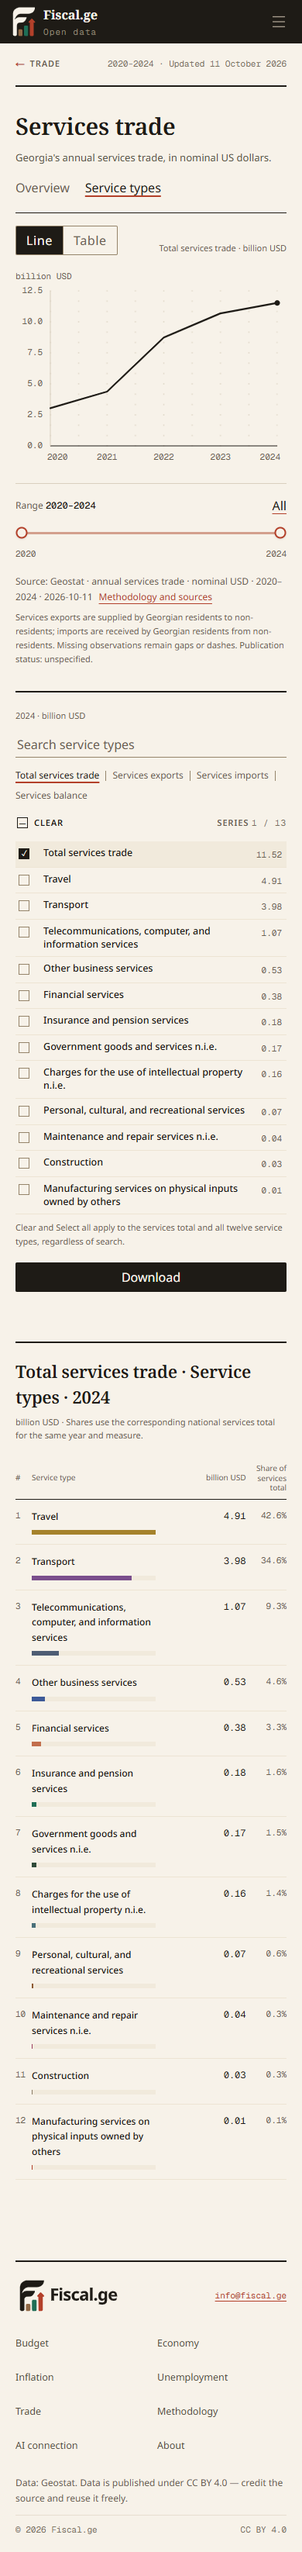
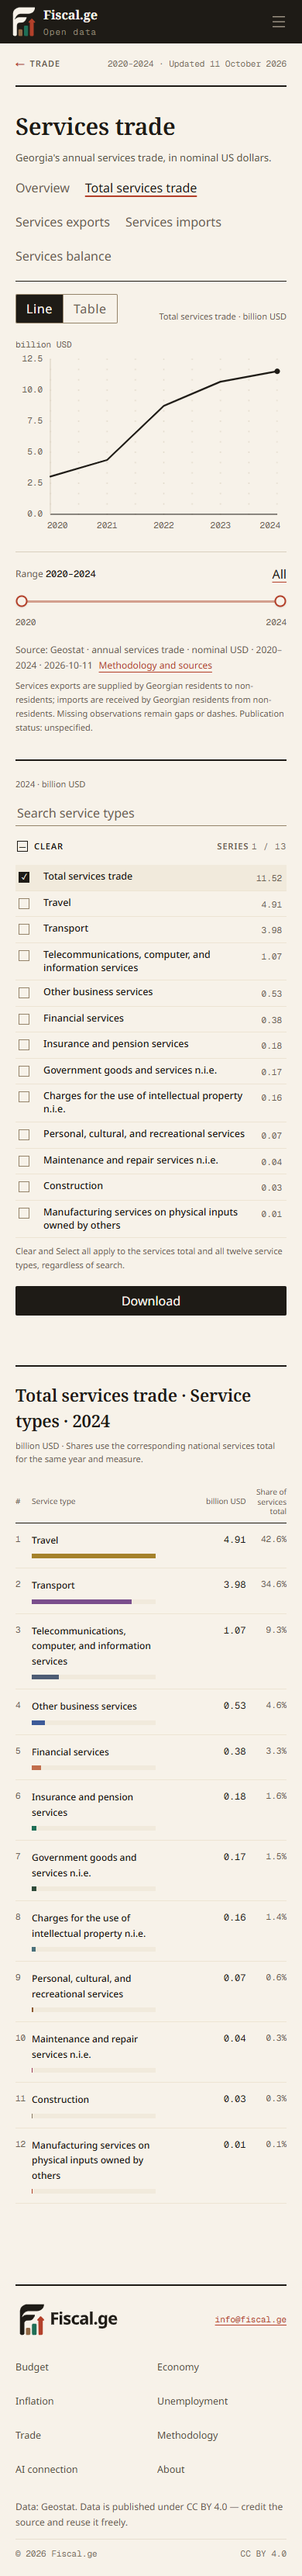
feat(trade): use measure tabs on services comparisons

diff --git a/apps/web/tests/browser/trade-services.spec.ts b/apps/web/tests/browser/trade-services.spec.ts
@@ -19,6 +19,9 @@ for (const prefix of ["", "/en"]) for (const width of [390, 768, 1440]) {
     await expect(page).toHaveURL(new RegExp(`${prefix}/explorer/trade/services$`));
     await expect(page.locator("body")).toHaveAttribute("data-app-ready", "true");
     await expect(page.getByRole("heading", { level: 1 })).toHaveText(prefix ? "Services trade" : "მომსახურებით ვაჭრობა");
+    const tabs = page.getByTestId("trade-services-tabs");
+    await expect(tabs.getByRole("button")).toHaveCount(5);
+    await expect(section(page, "overview")).toHaveAttribute("aria-pressed", "true");
     await expect(page.getByTestId("series-status")).toContainText("1 / 4");
     await expect(toggle(page, "trade.turnover")).toHaveAttribute("aria-pressed", "true");
     await expect(page.getByTestId("chart-panel")).toHaveAttribute("data-mode", "line");
@@ -45,7 +48,12 @@ for (const prefix of ["", "/en"]) for (const width of [390, 768, 1440]) {
     await page.getByTestId("chart-mode-table").click();
     expect(await tableSeriesCount(page.getByTestId("explorer-table"))).toBe(4);
 
-    await section(page, "types").click();
+    await section(page, "trade.exports").click();
+    await expect(page.getByTestId("chart-panel")).toHaveAttribute("data-measure", "trade.exports");
+    await expect(section(page, "trade.exports")).toHaveAttribute("aria-pressed", "true");
+    await section(page, "trade.turnover").click();
+    await expect(section(page, "trade.turnover")).toHaveAttribute("aria-pressed", "true");
+    await expect(page.getByTestId(/trade-partners-measure-/)).toHaveCount(0);
     await expect(page.getByTestId("series-status")).toContainText("1 / 13");
     await expect(page.getByTestId("series-list").getByTestId("series-row").first()).toHaveAttribute("data-series-id", "services.total");
     await expect(toggle(page, "services.total")).toHaveAttribute("aria-pressed", "true");
@@ -72,7 +80,7 @@ for (const prefix of ["", "/en"]) for (const width of [390, 768, 1440]) {
     await expect(page.getByTestId("trade-partners-ranking-row")).toHaveCount(12);
     await page.getByTestId("chart-mode-table").click();
     expect(await tableSeriesCount(page.getByTestId("explorer-table"))).toBe(13);
-    await page.getByTestId("trade-partners-measure-trade.balance").click();
+    await section(page, "trade.balance").click();
     await expect(page.getByTestId("trade-partners-ranking")).toHaveAttribute("data-has-share", "false");
     await expect(page.getByTestId("trade-partners-zero-axis").first()).toBeVisible();
     await expect(page.locator('[data-entity-id="services.construction"][data-testid="trade-partners-ranking-row"]')).toContainText("−");
@@ -90,6 +98,7 @@ for (const prefix of ["", "/en"]) for (const width of [390, 768, 1440]) {
     await page.setViewportSize({ width, height: 1000 });
     await page.goto(`${prefix}/explorer/trade/services#section=types&measure=trade.exports&sel=services.maintenance_repair&view=table&start=2020&end=2024`);
     await expect(page.getByTestId("series-status")).toContainText("1 / 13");
+    await expect(section(page, "trade.exports")).toHaveAttribute("aria-pressed", "true");
     const entities = JSON.parse(await readFile("../../data/taxonomy/trade-services.json", "utf8")) as { id: string; labelEn: string; labelKa: string }[];
     const label = entities.find(entity => entity.id === "services.maintenance_repair")![prefix ? "labelEn" : "labelKa"];
     const values = await tableSeriesValues(page.getByTestId("explorer-table"), label);
@@ -99,20 +108,22 @@ for (const prefix of ["", "/en"]) for (const width of [390, 768, 1440]) {
     await expect(end).toHaveAttribute("aria-valuenow", "2020");
     await expect(page.getByTestId("trade-partners-unavailable-row")).toHaveCount(1);
     await expect(page.getByTestId("trade-partners-ranking-row")).toHaveCount(11);
-    await page.getByTestId("trade-partners-measure-trade.imports").click();
+    await section(page, "trade.imports").click();
     expect((await tableSeriesValues(page.getByTestId("explorer-table"), label))[0]).not.toBe("—");
-    await page.getByTestId("trade-partners-measure-trade.balance").click();
+    await section(page, "trade.balance").click();
     expect((await tableSeriesValues(page.getByTestId("explorer-table"), label))[0]).toBe("—");
-    await page.getByTestId("trade-partners-measure-trade.turnover").click();
+    await section(page, "trade.turnover").click();
     expect((await tableSeriesValues(page.getByTestId("explorer-table"), label))[0]).toBe("—");
-    await page.getByTestId("trade-partners-measure-trade.balance").click();
+    await section(page, "trade.balance").click();
     const savedTypes = page.url();
-    await section(page, "overview").click();
+    await section(page, "overview").focus(); await section(page, "overview").press("Enter");
+    await expect(section(page, "overview")).toBeFocused();
     await expect(page.getByTestId("series-status")).toContainText("1 / 4");
     await toggle(page, "trade.turnover").focus(); await toggle(page, "trade.turnover").press("Space");
     await expect(page.getByTestId("series-status")).toContainText("0 / 4");
     await page.getByTestId("chart-mode-table").click();
-    await section(page, "types").focus(); await section(page, "types").press("Enter");
+    await section(page, "trade.balance").focus(); await section(page, "trade.balance").press("Enter");
+    await expect(section(page, "trade.balance")).toBeFocused();
     await expect(page).toHaveURL(savedTypes);
     await page.goBack();
     await expect(page.getByTestId("trade-services")).toHaveAttribute("data-section", "overview");

diff --git a/apps/web/components/trade/trade-partners.tsx b/apps/web/components/trade/trade-partners.tsx
@@ -1,8 +1,8 @@
 "use client";
 import Link from "next/link";
-import { Fragment } from "react";
+import { Fragment, type ReactNode } from "react";
 import type { ClientTradePartnersData } from "../../lib/data/tradePartners/importTradePartners";
-import { TRADE_OVERVIEW_INDICATORS } from "../../lib/data/tradeOverview/types";
+import { TRADE_OVERVIEW_INDICATORS, type TradeChartIndicator } from "../../lib/data/tradeOverview/types";
 import { buildTradePartnersModel, tradePartnerColor } from "../../lib/explorer/tradePartners";
 import { tradePartnersTotalId, setTradePartnersTab, tradePartnersCoverage } from "../../lib/explorer/tradePartnersState";
 import { buildTradePartnersWorkbookModel } from "../../lib/explorer/tradePartnersWorkbook";
@@ -25,7 +25,7 @@ import { useTradePartnersState } from "./use-trade-partners-state";
 import { TradePartnersSeriesPanel } from "./trade-partners-series-panel";
 import { TradePartnersRanking } from "./trade-partners-ranking";
 
-export function TradePartners({ data, sources, lastReviewedAt, siteOrigin }: { data: ClientTradePartnersData; sources: WorkbookPublicSource[]; lastReviewedAt: string; siteOrigin: string }) {
+export function TradePartners({ data, sources, lastReviewedAt, siteOrigin, navigation }: { data: ClientTradePartnersData; sources: WorkbookPublicSource[]; lastReviewedAt: string; siteOrigin: string; navigation?: (measure: TradeChartIndicator, changeMeasure: (next: TradeChartIndicator) => void) => ReactNode }) {
   const services = data.dataset === "services", domestic = !services && Boolean(data.measures), embedded = services || domestic;
   const totalId = tradePartnersTotalId(data);
   const presentation = useI18n(), { locale, messages, englishLabels } = presentation;
@@ -44,7 +44,7 @@ export function TradePartners({ data, sources, lastReviewedAt, siteOrigin }: { d
   }} />;
   return <div data-testid="trade-partners" className="@container">
     {!embedded ? <><ExplorerHeading>{t("title")}</ExplorerHeading><p className="mb-5 max-w-[800px] text-[13px] leading-relaxed text-[var(--body)]">{message(messages, "trade.partners.summaryWithScale", { scale })}</p></> : null}
-    {!embedded ? measureControls : null}
+    {navigation ? navigation(state.measure, measure => update(s => ({ ...s, measure }), true)) : !embedded ? measureControls : null}
     {state.tab === "groups" || model.selectedIds.some(id => entities.get(id)?.kind === "group") ? <p data-testid="trade-partners-group-note" className="mb-4 max-w-[850px] border-l-2 border-[var(--accent)] pl-3 text-[12px] leading-relaxed text-[var(--muted)]">{t("groupOverlap")}</p> : null}
     <ExplorerWorkspace>
       <div className="flex min-w-0 flex-col">
@@ -57,7 +57,7 @@ export function TradePartners({ data, sources, lastReviewedAt, siteOrigin }: { d
         </section>
         <div className="mt-[18px]"><SourceNote testId="source-label">{message(messages, services ? "trade.services.sourceNote" : "trade.sourceNote")} · {model.range.start}–{model.range.end} · {lastReviewedAt}<Link href={pageHref("/methodology/trade", locale)} className="ml-2 text-[var(--accent)] underline underline-offset-4">{message(messages, "trade.methodology")}</Link></SourceNote><p className="mt-2 max-w-[850px] text-[11px] leading-relaxed text-[var(--muted)]">{services ? message(messages, "trade.services.definitions") : domestic ? message(messages, "trade.domestic.countryDefinitions") : t("definitions")}</p></div>
       </div>
-      <SeriesAside label={message(messages, "controls.series")}><TradePartnersSeriesPanel key={state.tab} data={data} state={state} model={model} onTabChange={tab => update(s => setTradePartnersTab(s, tab), true)} onSelectionChange={selectedIds => update(s => ({ ...s, selectedIds }), true)} measureControls={measureControls} downloadAction={downloadAction} /></SeriesAside>
+      <SeriesAside label={message(messages, "controls.series")}><TradePartnersSeriesPanel key={state.tab} data={data} state={state} model={model} onTabChange={tab => update(s => setTradePartnersTab(s, tab), true)} onSelectionChange={selectedIds => update(s => ({ ...s, selectedIds }), true)} measureControls={navigation ? undefined : measureControls} downloadAction={downloadAction} /></SeriesAside>
     </ExplorerWorkspace>
     <TradePartnersRanking key={`${state.tab}:${state.measure}:${model.range.end}`} model={model} tab={state.tab} measure={state.measure} />
   </div>;

diff --git a/apps/web/components/trade/trade-services.tsx b/apps/web/components/trade/trade-services.tsx
@@ -1,5 +1,7 @@
 "use client";
+import { useEffect, useRef } from "react";
 import type { toClientTradeServicesData } from "../../lib/data/tradeServices/importTradeServices";
+import { TRADE_OVERVIEW_INDICATORS, type TradeChartIndicator } from "../../lib/data/tradeOverview/types";
 import type { WorkbookPublicSource } from "../../lib/explorer/workbookModel";
 import { message } from "../../lib/i18n/messages";
 import { useI18n } from "../../lib/i18n/provider";
@@ -13,13 +15,24 @@ const sections = ["overview", "types"] as const;
 export function TradeServices({ data, sources, lastReviewedAt, siteOrigin }: { data: ReturnType<typeof toClientTradeServicesData>; sources: WorkbookPublicSource[]; lastReviewedAt: string; siteOrigin: string }) {
   const { messages } = useI18n(), t = (key: string) => message(messages, `trade.services.${key}`);
   const { section, changeSection } = useTradeSectionsState(sections, "overview", "trade-services-state");
+  const pendingFocus = useRef<string | null>(null);
+  useEffect(() => {
+    if (!pendingFocus.current) return;
+    document.getElementById(pendingFocus.current)?.focus({ preventScroll: true });
+    pendingFocus.current = null;
+  }, [section]);
+  const changeView = (next: typeof section, measure?: TradeChartIndicator) => {
+    if (next !== section) pendingFocus.current = `trade-services-section-${measure ?? "overview"}`;
+    changeSection(next, measure ? { measure } : undefined);
+  };
   const props = { sources, lastReviewedAt, siteOrigin, dataset: "services" as const };
+  const tabs = (measure?: TradeChartIndicator, changeMeasure?: (next: TradeChartIndicator) => void) => <div role="group" aria-label={t("views")} data-testid="trade-services-tabs" className="mb-5 flex flex-wrap items-center gap-5">
+    <TextTab label={t("overview")} active={section === "overview"} onClick={() => changeView("overview")} id="trade-services-section-overview" testId="trade-services-section-overview" />
+    {(data.types.measures ?? TRADE_OVERVIEW_INDICATORS).map(id => <TextTab key={id} label={t(`indicator.${id}`)} active={section === "types" && measure === id} onClick={() => changeMeasure ? changeMeasure(id) : changeView("types", id)} id={`trade-services-section-${id}`} testId={`trade-services-section-${id}`} />)}
+  </div>;
   return <div data-testid="trade-services" data-section={section} className="@container">
     <ExplorerHeading>{t("title")}</ExplorerHeading>
     <p className="mb-4 max-w-[850px] text-[13px] leading-relaxed text-[var(--body)]">{t("summary")}</p>
-    <div role="group" aria-label={t("views")} className="mb-5 flex flex-wrap items-center gap-5">
-      {sections.map(id => <TextTab key={id} label={t(id)} active={section === id} onClick={() => changeSection(id)} testId={`trade-services-section-${id}`} />)}
-    </div>
-    {section === "overview" ? <TradeOverview facts={data.national} {...props} /> : <TradePartners data={data.types} sources={sources} lastReviewedAt={lastReviewedAt} siteOrigin={siteOrigin} />}
+    {section === "overview" ? <>{tabs()}<TradeOverview facts={data.national} {...props} /></> : <TradePartners data={data.types} sources={sources} lastReviewedAt={lastReviewedAt} siteOrigin={siteOrigin} navigation={tabs} />}
   </div>;
 }

diff --git a/apps/web/tests/explorer/tradeServicesRender.test.tsx b/apps/web/tests/explorer/tradeServicesRender.test.tsx
@@ -9,13 +9,15 @@ import { TradePartnersRanking } from "../../components/trade/trade-partners-rank
 import { buildTradePartnersModel } from "../../lib/explorer/tradePartners";
 import { parseTradePartnersHash } from "../../lib/explorer/tradePartnersState";
 
-test.each(["en", "ka"] as const)("services %s has one heading, two page tabs and a twelve-type ranking", async locale => {
+test.each(["en", "ka"] as const)("services %s has one heading, overview and four measure tabs, and a twelve-type ranking", async locale => {
   const data = toClientTradeServicesData(await loadTradeServicesData()), presentation = { locale, englishLabels: data.englishLabels, messages: await getMessages(locale, ["trade", "controls", "main", "format", "common"]) };
   const props = { sources: [], lastReviewedAt: "2026-10-11", siteOrigin: "https://fiscal.ge" };
   const page = renderToStaticMarkup(<I18nProvider {...presentation}><TradeServices data={data} {...props} /></I18nProvider>);
   expect(page.match(/<h1/g)).toHaveLength(1);
-  expect(page).toContain('data-testid="trade-services-section-types"');
   expect(page).toContain('data-testid="trade-services-section-overview"');
+  for (const measure of ["trade.turnover", "trade.exports", "trade.imports", "trade.balance"]) {
+    expect(page).toContain(`data-testid="trade-services-section-${measure}"`);
+  }
   if (locale === "en") expect(page).toContain("Georgia&#x27;s annual services trade, in nominal US dollars.");
   const html = renderToStaticMarkup(<I18nProvider {...presentation}><TradePartners data={data.types} {...props} /></I18nProvider>);
   expect(html.match(/data-testid="trade-partners-ranking-row"/g)).toHaveLength(12);

diff --git a/apps/web/components/trade/use-trade-sections-state.ts b/apps/web/components/trade/use-trade-sections-state.ts
@@ -1,7 +1,7 @@
 "use client";
 import { useEffect, useRef, useState } from "react";
 
-export function useTradeSectionsState<T extends string>(sections: readonly T[], defaultSection: T, eventName: string): { section: T; changeSection: (next: T) => void } {
+export function useTradeSectionsState<T extends string>(sections: readonly T[], defaultSection: T, eventName: string): { section: T; changeSection: (next: T, parameters?: Record<string, string>) => void } {
   const [section, setSection] = useState<T>(defaultSection);
   const saved = useRef<Partial<Record<T, string>>>({});
   useEffect(() => {
@@ -15,10 +15,15 @@ export function useTradeSectionsState<T extends string>(sections: readonly T[], 
     window.addEventListener(eventName, cache);
     return () => { window.removeEventListener("popstate", restore); window.removeEventListener("hashchange", restore); window.removeEventListener(eventName, cache); };
   }, [sections, defaultSection, eventName]);
-  const changeSection = (next: T) => {
+  const changeSection = (next: T, parameters?: Record<string, string>) => {
     if (next === section) return;
     saved.current[section] = window.location.hash;
-    const hash = saved.current[next] || `#section=${next}`;
+    let hash = saved.current[next] || `#section=${next}`;
+    if (parameters) {
+      const params = new URLSearchParams(hash.slice(1));
+      for (const [key, value] of Object.entries(parameters)) params.set(key, value);
+      hash = `#${params}`;
+    }
     try { window.history.pushState(null, "", hash); } catch { /* The comparison still works in embedded contexts. */ }
     setSection(next);
   };

diff --git a/apps/web/components/ui/editorial.tsx b/apps/web/components/ui/editorial.tsx
@@ -8,13 +8,15 @@ type TextTabProps = {
   label: string;
   active: boolean;
   onClick: () => void;
+  id?: string;
   testId?: string;
 };
 
-export function TextTab({ label, active, onClick, testId }: TextTabProps) {
+export function TextTab({ label, active, onClick, id, testId }: TextTabProps) {
   return (
     <button
       type="button"
+      id={id}
       data-testid={testId}
       aria-pressed={active}
       onClick={onClick}

diff --git a/docs/superpowers/specs/2026-10-11-trade-services-design.md b/docs/superpowers/specs/2026-10-11-trade-services-design.md
@@ -7,6 +7,8 @@ Status: First-release scope approved on 2026-10-11 when the owner selected "Over
 
 Help Fiscal.ge readers understand Georgia's services exports and imports, see their balance, and compare the twelve published service types over time. Readers can inspect and download the same annual figures in Georgian or English using the established Trade controls.
 
+Navigation amendment approved 2026-10-12: the owner requested moving the four measure controls to the page-level tabs, replacing Service types. Keep Overview followed by Total services trade, Services exports, Services imports and Services balance. The four measure tabs share the existing service-type comparison state and retain the existing saved-link format.
+
 The owner approved one Services trade page with **Overview** and **Service types** views for the captured 2020–2024 annual data. Countries are deferred. Preserve the source's missing observation, exact decimals and two unresolved country-table discrepancies.
 
 Approaches considered:
@@ -26,7 +28,7 @@ The first release has no country or type-by-country comparisons, combined goods-
 - Extend the existing `/methodology/trade` page and its English mirror.
 - Reuse breadcrumbs, source notes, language links, metadata, Dataset JSON-LD and sitemap patterns. Coverage and review dates come from the accepted package.
 
-Keep one heading and one short lead line: "Georgia's annual services trade, in nominal US dollars." Do not add a summary paragraph or source-warning block beneath the heading. Put definitions and the reason for deferring countries in the methodology. Use one row of text tabs, **Overview | Service types**, below the lead line.
+Keep one heading and one short lead line: "Georgia's annual services trade, in nominal US dollars." Do not add a summary paragraph or source-warning block beneath the heading. Put definitions and the reason for deferring countries in the methodology. Use one row of text tabs, **Overview | Total services trade | Services exports | Services imports | Services balance**, below the lead line.
 
 This is services supplied between residents and non-residents. Services exports are supplied by Georgian residents to non-residents; services imports are received by Georgian residents from non-residents. Do not reuse the goods-only FOB/CIF, final-destination, sending-country or re-export explanations. Travel remains the publisher's Travel category, and Telecommunications, computer, and information services remains the complete published category rather than an IT-only estimate.
 
@@ -51,7 +53,7 @@ Reuse `TradePartners`, its model, series panel and ranking through a small expli
 
 - One measure at a time: Total services trade, Services exports, Services imports or Services balance. Start with Total services trade, matching the current partner comparison default.
 - One series selector: the removable national services total first, followed by the twelve published service types. Initially only the total is selected.
-- No Countries/Country groups browsing controls. Put the compact measure controls below search, as on Domestic exports, so there is only one page-level tab row.
+- No Countries/Country groups browsing controls. The four page-level measure tabs open this comparison directly; do not repeat measure controls below search.
 - Reuse multilingual search, unlimited selections and the standard `Series {selected} / {all}` count. The denominator is thirteen, derived from the accepted catalogue. Search does not narrow Clear/Select all, counts, ranking or Excel.
 - Sort type choices by the active end-year amount, or absolute amount for Balance; put unavailable choices last with a stable label/ID tie-break.
 - Keep the applicable national total in ink and assign stable editorial colors to the twelve types using the existing palette. Color never substitutes for a readable label.

diff --git a/DESIGN.md b/DESIGN.md
@@ -1178,9 +1178,9 @@ Keep one page-level tab row. Countries places its small Domestic exports / Re-ex
 
 ### 28.4 Services trade
 
-Approved 2026-10-11 (`docs/superpowers/specs/2026-10-11-trade-services-design.md`). The Services trade page and English mirror use one heading, one short nominal-USD lead line and one Overview / Service types text-tab row. Reuse `TradeOverview` and `TradePartners` through their explicit services dataset options, the shared Trade tab state, series panel, charts, tables, annual range controls, ranking and native Excel. The fifth hub card and active sidebar child follow Domestic exports, with services turnover and loaded coverage.
+Approved 2026-10-11, navigation amended 2026-10-12 (`docs/superpowers/specs/2026-10-11-trade-services-design.md`). The Services trade page and English mirror use one heading, one short nominal-USD lead line and one text-tab row: Overview / Total services trade / Services exports / Services imports / Services balance. Reuse `TradeOverview` and `TradePartners` through their explicit services dataset options, the shared Trade tab state, series panel, charts, tables, annual range controls, ranking and native Excel. The fifth hub card and active sidebar child follow Domestic exports, with services turnover and loaded coverage.
 
-Overview offers Total services trade, Services exports, Services imports and Services balance, with four independent end-year figures and the signed balance context chart. Service types starts with Total services trade and a single selector containing the removable national services total plus all twelve types; measure controls sit below search and no country/group tabs appear. Each view initially selects only its applicable total, in line mode over all loaded years. Selection is unlimited; search never scopes bulk actions, counts, ranking or Excel. The independent end-year ranking shows all twelve types; non-balance shares use the matching same-year national services total, while Balance uses absolute magnitude, signed neutral bars and no share. Scale follows the full relevant catalogue over the active range independently of checkbox selection.
+Overview offers Total services trade, Services exports, Services imports and Services balance, with four independent end-year figures and the signed balance context chart. Each measure tab opens the service-type comparison directly; the four measure tabs replace the Service types tab and the controls below search. These tabs share one comparison selection containing the removable national services total plus all twelve types; no country/group tabs appear. Each view initially selects only its applicable total, in line mode over all loaded years. Selection is unlimited; search never scopes bulk actions, counts, ranking or Excel. The independent end-year ranking shows all twelve types; non-balance shares use the matching same-year national services total, while Balance uses absolute magnitude, signed neutral bars and no share. Scale follows the full relevant catalogue over the active range independently of checkbox selection.
 
 Saved links retain view, active measure, years, mode and explicit empty selections through reload, history, language changes and active sidebar links; switching views remembers the last comparison. Missing values remain gaps, dashes and blank workbook cells; zero stays numerical. Keep `services.total` and service-type identities separate from goods/countries. Explain resident/non-resident definitions, the unavailable 2020 maintenance/repair export, exact formulas, country holds and the distinct NBG vintage in the existing methodology. No new component family or visual system is introduced.
 

diff --git a/docs/superpowers/reviews/2026-10-12-trade-services-requested-review.md b/docs/superpowers/reviews/2026-10-12-trade-services-requested-review.md
@@ -1,0 +1,28 @@
+# Requested Services code review — 2026-10-12
+
+The owner explicitly invoked `superpowers:requesting-code-review`. A fresh reviewer, `/root/services_requested_code_review` (gpt-6.1-sol, high), reviewed the complete Services implementation and current tab amendment read-only, without inherited conversation history or additional reviewers.
+
[1 lines of base64/hex data omitted]
+
+## Findings and assessment
+
+Critical: none identified. Important: none identified. Minor: none identified.
+
+The reviewer inspected source/cell bindings and exact derivations, preserved missingness, shared explorer controls and saved state, tab focus, ranking/shares/colors/scaling, native workbooks, private migration/import parity, bilingual discovery/methodology/SEO and MCP exclusions. Representative final screenshots were inspected. Reuse and the narrow optional additions preserve existing Trade behavior.
+
+Assessment: ready on code-review merits, subject to required green CI before merging. This does not establish real database or production behavior. No implementation fixes were needed.
+
+## Verification evidence
+
+The current build passed, and the full browser suite passed all 1,261 cases, including all 14 Services cases. The final focused unit checks passed 10 cases. Source/test edits precede the successful build/browser runs. `git diff --check` passed during this review; no broad gate was repeated.
+
+The aggregate `npm run check` attempt remains recorded as exit 1: 3,797 unit cases passed, 13 skipped and two timed out. Both exact timed-out cases passed in isolated retries at their original time limits; separate data/localization validation passed. Passing retries do not establish the timeout cause. Details are retained in [the tab verification record](2026-10-12-trade-services-tabs.md).
+
+## Declined behaviors and controller rulings
+
+- Countries/type-country comparisons: deferral is appropriate under the owner's approved scope; both unresolved source discrepancies remain held.
+- Newer publisher releases: the accepted frozen snapshot is the review target; a new collection/reconciliation cycle is outside this review.
+- NBG backfill/reconciliation: appropriate to defer because it is a distinct source/vintage outside the approved Services subset.
+- Real database migration, rollback and role enforcement: offline code review is accepted; actual execution remains unverified without an authorized test target. No database operation was performed.
+- CI and production behavior: appropriate to leave unverified in this local review. Green required CI and the applicable delivery/deployment checks remain necessary for publication.
+- Full-suite timeout cause: no cause is inferred from isolated passing retries. Preserve the original failed aggregate result alongside the successful retries.

diff --git a/docs/superpowers/reviews/2026-10-12-trade-services-tabs.md b/docs/superpowers/reviews/2026-10-12-trade-services-tabs.md
@@ -1,0 +1,17 @@
+# Services measure tabs — local verification
+
+The owner's 2026-10-12 request replaces the Service types tab with Total services trade, Services exports, Services imports and Services balance, alongside Overview. The service-type sidebar no longer repeats those measure controls. The four comparisons share the existing selection, years and view settings; existing saved links retain their format.
+
+Reuse: existing TextTab, TradeOverview, TradePartners, comparison state, charts, tables, ranking and Excel. Small additions allow TradePartners to render the page navigation, the section hook to restore a chosen measure, and TextTab to receive a DOM ID for focus restoration. No new component family or data changes.
+
+Verified on the final local build:
+
+- Production build and postbuild publication checks passed; both Services routes are static.
+- Full browser suite: 1,261 passed, including all 14 Services cases and the shared Partners/Domestic controls. Services covers both languages at 390, 768 and 1440 pixels, saved selections, empty selections, navigation, missing values and real Excel downloads.
+- Keyboard regression reproduced a lost-focus failure before the correction; the same case passed afterward. Overview/comparison changes now restore focus to the chosen tab without scrolling. Initial loading and history navigation do not request focus.
+- Focused unit checks after the correction: 3 files, 10 passed. Scoped lint and TypeScript checks passed.
+- The full `npm run check` attempt passed lint/typecheck and 3,797 unit cases, with 13 skipped, but two unrelated cases timed out. Both exact cases passed individually with their existing time limits: the separate HS4 source identity case and the bilingual sitemap revision case. Data validation and localization checks subsequently passed separately. The original combined command therefore remains recorded as exit 1; it was not rerun.
+- The earlier development-browser run had one cold navigation timeout. All Services cases passed against the finished production build.
+- Independent review found no blocking issues in the tabs change or the subsequent focus correction. Georgian phone and English desktop screenshots were inspected; all twelve Services screenshots were refreshed from the final build.
+
+Preview: `http://127.0.0.1:3218/en/explorer/trade/services`. This verification concerns the local worktree and preview.
